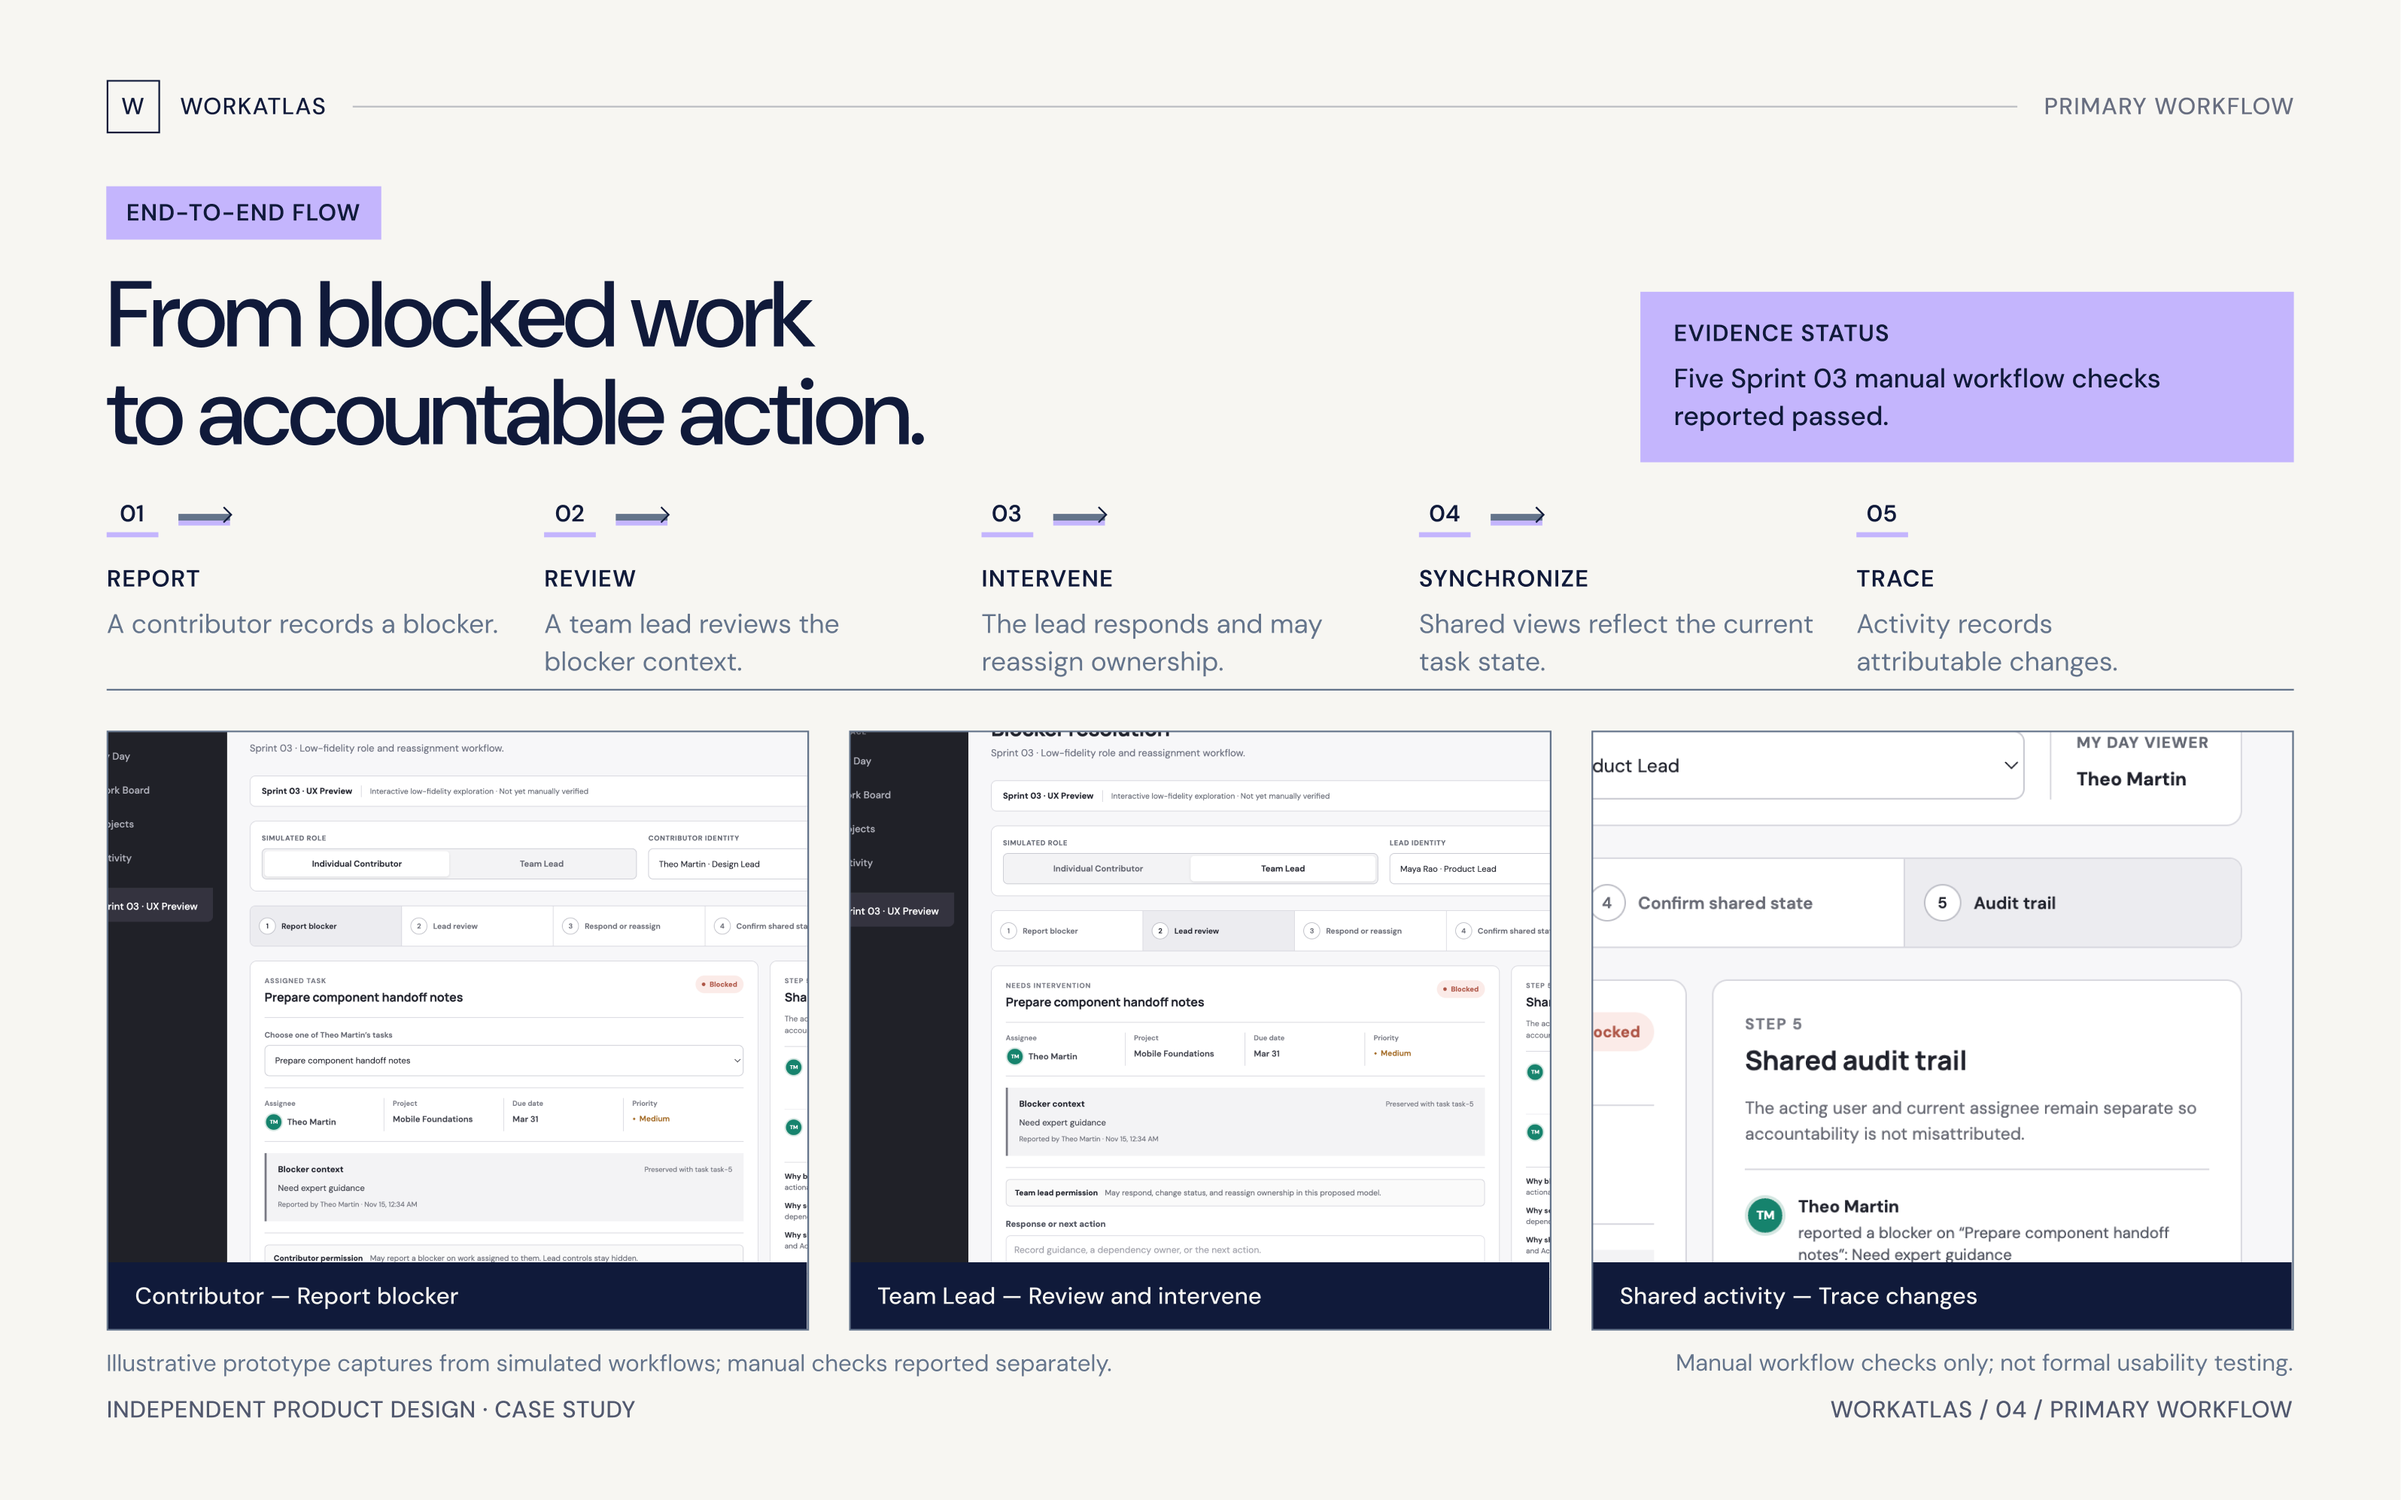
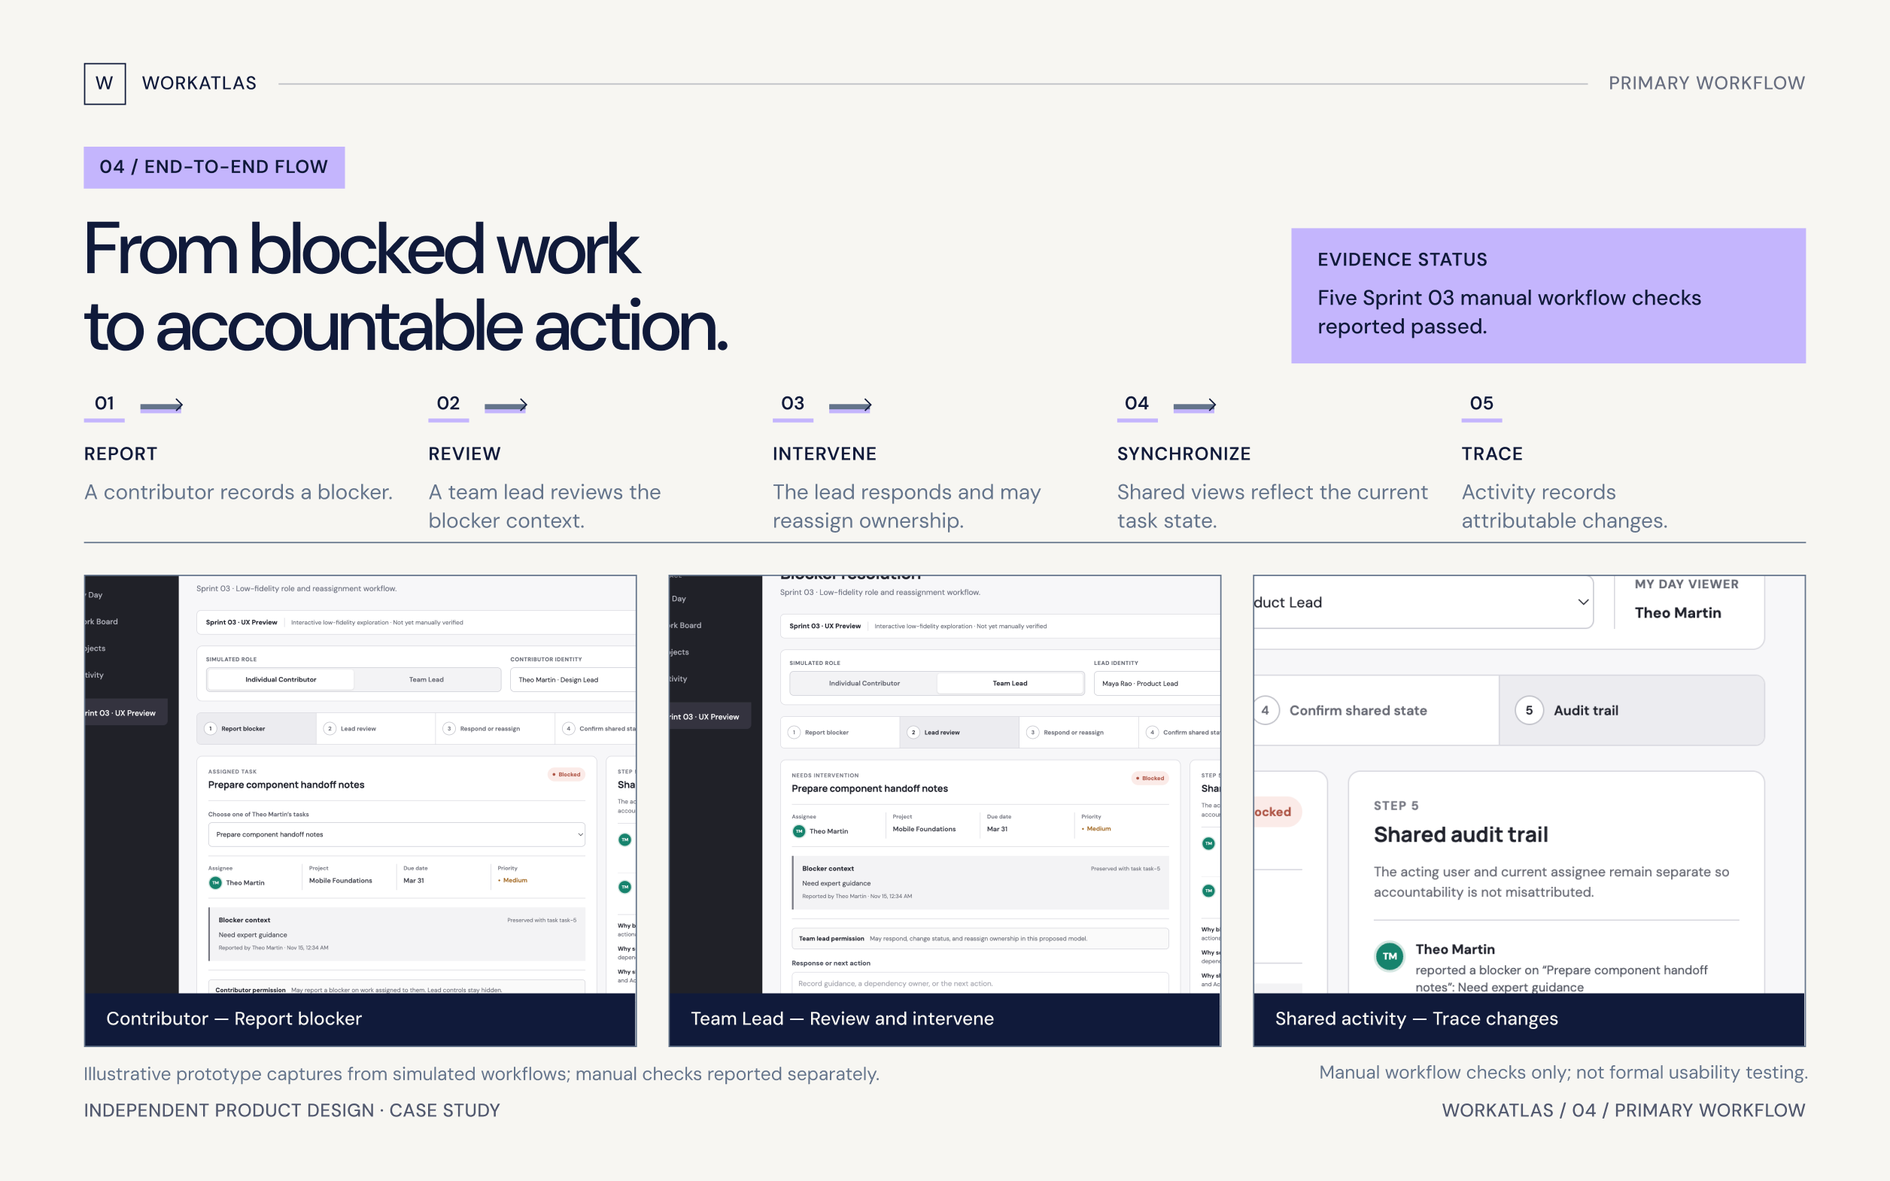
WorkAtlas V2 case-study release preparation (#13)
* Clarify remaining WorkAtlas prototype regression evidence

* Add files via upload

* Replace six WorkAtlas frame assets with approved V2 images

diff --git a/app/work/workatlas/page.tsx b/app/work/workatlas/page.tsx
@@ -13,4 +13,4 @@ export const metadata: Metadata = {
 import WorkAtlasImage from "../../../components/workatlas-image";
 import Link from "next/link";
 const chapters=[{"n":"01","title":"What I built","text":"WorkAtlas is an independent, responsive enterprise UX prototype built with fictional scenarios and synthetic data. It explores how shared work, ownership, intervention and activity history can remain connected in one task workspace."},{"n":"02","title":"The workflow problem","text":"A shared board can show progress without making the next action clear when work is blocked or reassigned. WorkAtlas treats visibility, ownership, intervention and accountability as design hypotheses—not findings from formal user research."},{"n":"03","title":"One connected task system","text":"One shared task collection supports My Day, Work Board, Projects and Activity. My Day filters tasks by current assignee, while simulated Contributor and Team Lead roles explore different actions; production authorization has not been verified."},{"n":"04","title":"From blocker to resolution","text":"A contributor reports a blocker; a team lead reviews its context, responds and may change status or reassign ownership. Sprint 03 recorded five user-reported manual passes covering blocker reporting, review, reassignment, shared state and activity history."},{"n":"05","title":"Fixing an ownership defect","text":"Sprint 04 exposed an ownership-boundary defect: a former assignee could change task status after reassignment and save it. After a focused prototype correction, the former-assignee save was rejected and lead reassignment was retested successfully in the reported scenarios."},{"n":"06","title":"What was tested—and what wasn’t","text":"Sprint 02 recorded three manual passes; Sprint 03 recorded five. In Sprint 04, four checks initially passed and one failed before a scenario-specific correction. These are user-reported prototype checks—not automated tests, formal usability results, production security verification or measured business impact."}];
-export default function WorkAtlas(){return <main id="main-content" tabIndex={-1} className="co-case-page"><header className="nav co-nav"><Link href="/" className="brand">shilpi<span>.</span>mishra</Link><nav aria-label="Case study navigation"><Link href="/"> All work</Link><a href="#evidence">Evidence</a></nav></header><section className="case-hero co-case-hero"><div className="eyebrow">01 / INDEPENDENT ENTERPRISE UX PROTOTYPE</div><h1>WorkAtlas<span className="accent">.</span></h1><p>An independent enterprise UX prototype examining shared ownership, blocker resolution and accountable task changes—with a permission-boundary defect corrected and retested in a manual scenario.</p><div className="case-links"><a href="https://drive.google.com/file/d/1hbOIAZaUfbbNq1OZzaKGkB7WqoYDD5S7/view" target="_blank" rel="noopener noreferrer">View full PDF </a><a href="https://github.com/lotolipi/workatlas-enterprise-ux" target="_blank" rel="noopener noreferrer">Evidence on GitHub </a></div></section><section className="case-intro co-case-intro"><div><small>PROJECT TYPE</small><p>Self-directed enterprise UX concept and interactive prototype</p></div><div><small>DESIGN FOCUS</small><p>Connected tasks · Ownership changes · Blocker resolution</p></div><div><small>EVIDENCE LEVEL</small><p>Interactive prototype · User-reported manual checks · No production metrics</p></div></section><section className="case-intro co-case-intro co-case-decision" aria-labelledby="ownership-decision-title"><div><small>KEY DESIGN DECISION</small><p id="ownership-decision-title"><strong>Ownership must follow reassignment.</strong></p></div><div><small>BEFORE / CORRECTION</small><p>A manual prototype check found that a former assignee could still save a task-status change after reassignment. The interaction was corrected to restrict that edit.</p></div><div><small>VERIFIED RESULT</small><p>The former assignee’s attempted save was rejected in the retested scenario. This is prototype-level evidence, not production authorization or security validation.</p></div></section><section className="chapters co-case-chapters">{chapters.map((c,i)=><article className="chapter" id={i===5?"evidence":undefined} key={c.n}><div className="chapter-num">{c.n} / 06</div><div><h2>{c.title}</h2><p>{c.text}</p><a className="frame-link" href={"/projects/workatlas/frame-0"+(i+1)+".png"} target="_blank" rel="noopener noreferrer" aria-label={"Open original PNG for "+c.title}><WorkAtlasImage index={i+1} alt={"WorkAtlas exported case study frame "+(i+1)+": "+c.title} className="case-frame"/></a><p className="frame-hint">Tap the visual to view its original PNG.</p></div></article>)}</section><aside className="limitation co-case-limitation"><strong>Evidence boundary</strong><p>WorkAtlas uses fictional scenarios and synthetic data. There was no formal user research, production deployment, security verification, measured adoption or demonstrated business impact. Role permissions were tested only in described prototype scenarios.</p></aside><footer><Link href="/"> Back to portfolio</Link><Link href="/resume"> View résumé</Link><Link href="/#contact"> Get in touch</Link><a href="https://github.com/lotolipi/workatlas-enterprise-ux" target="_blank" rel="noopener noreferrer">PROJECT REPOSITORY </a></footer></main>}
+export default function WorkAtlas(){return <main id="main-content" tabIndex={-1} className="co-case-page"><header className="nav co-nav"><Link href="/" className="brand">shilpi<span>.</span>mishra</Link><nav aria-label="Case study navigation"><Link href="/"> All work</Link><a href="#evidence">Evidence</a></nav></header><section className="case-hero co-case-hero"><div className="eyebrow">01 / INDEPENDENT ENTERPRISE UX PROTOTYPE</div><h1>WorkAtlas<span className="accent">.</span></h1><p>An independent enterprise UX prototype examining shared ownership, blocker resolution and accountable task changes—with a permission-boundary defect corrected and retested in a manual scenario.</p><div className="case-links"><a href="https://drive.google.com/file/d/1hbOIAZaUfbbNq1OZzaKGkB7WqoYDD5S7/view" target="_blank" rel="noopener noreferrer">View full PDF </a><a href="https://github.com/lotolipi/workatlas-enterprise-ux" target="_blank" rel="noopener noreferrer">Evidence on GitHub </a></div></section><section className="case-intro co-case-intro"><div><small>PROJECT TYPE</small><p>Self-directed enterprise UX concept and interactive prototype</p></div><div><small>DESIGN FOCUS</small><p>Connected tasks · Ownership changes · Blocker resolution</p></div><div><small>EVIDENCE LEVEL</small><p>Interactive prototype · User-reported manual checks · No production metrics</p></div></section><section className="case-intro co-case-intro co-case-decision" aria-labelledby="ownership-decision-title"><div><small>KEY DESIGN DECISION</small><p id="ownership-decision-title"><strong>Ownership must follow reassignment.</strong></p></div><div><small>BEFORE / CORRECTION</small><p>A manual prototype check found that a former assignee could still save a task-status change after reassignment. The interaction was corrected to restrict that edit.</p></div><div><small>VERIFIED RESULT</small><p>The former assignee’s attempted save was rejected in the retested scenario. This is prototype-level evidence, not production authorization or security validation.</p></div></section><section className="chapters co-case-chapters">{chapters.map((c,i)=><article className="chapter" id={i===5?"evidence":undefined} key={c.n}><div className="chapter-num">{c.n} / 06</div><div><h2>{c.title}</h2><p>{c.text}</p><a className="frame-link" href={"/projects/workatlas/frame-0"+(i+1)+".png"} target="_blank" rel="noopener noreferrer" aria-label={"Open original PNG for "+c.title}><WorkAtlasImage index={i+1} alt={"WorkAtlas exported case study frame "+(i+1)+": "+c.title} className="case-frame"/></a><p className="frame-hint">Tap the visual to view its original PNG.</p></div></article>)}</section><aside className="limitation co-case-limitation"><strong>Evidence boundary</strong><p>WorkAtlas uses fictional scenarios and synthetic data. There was no formal user research, production deployment, security verification, measured adoption or demonstrated business impact. Role permissions were tested only in described prototype scenarios. Post-fix Activity behavior after a rejected edit and current-assignee status editing remain unverified.</p></aside><footer><Link href="/"> Back to portfolio</Link><Link href="/resume"> View résumé</Link><Link href="/#contact"> Get in touch</Link><a href="https://github.com/lotolipi/workatlas-enterprise-ux" target="_blank" rel="noopener noreferrer">PROJECT REPOSITORY </a></footer></main>}
